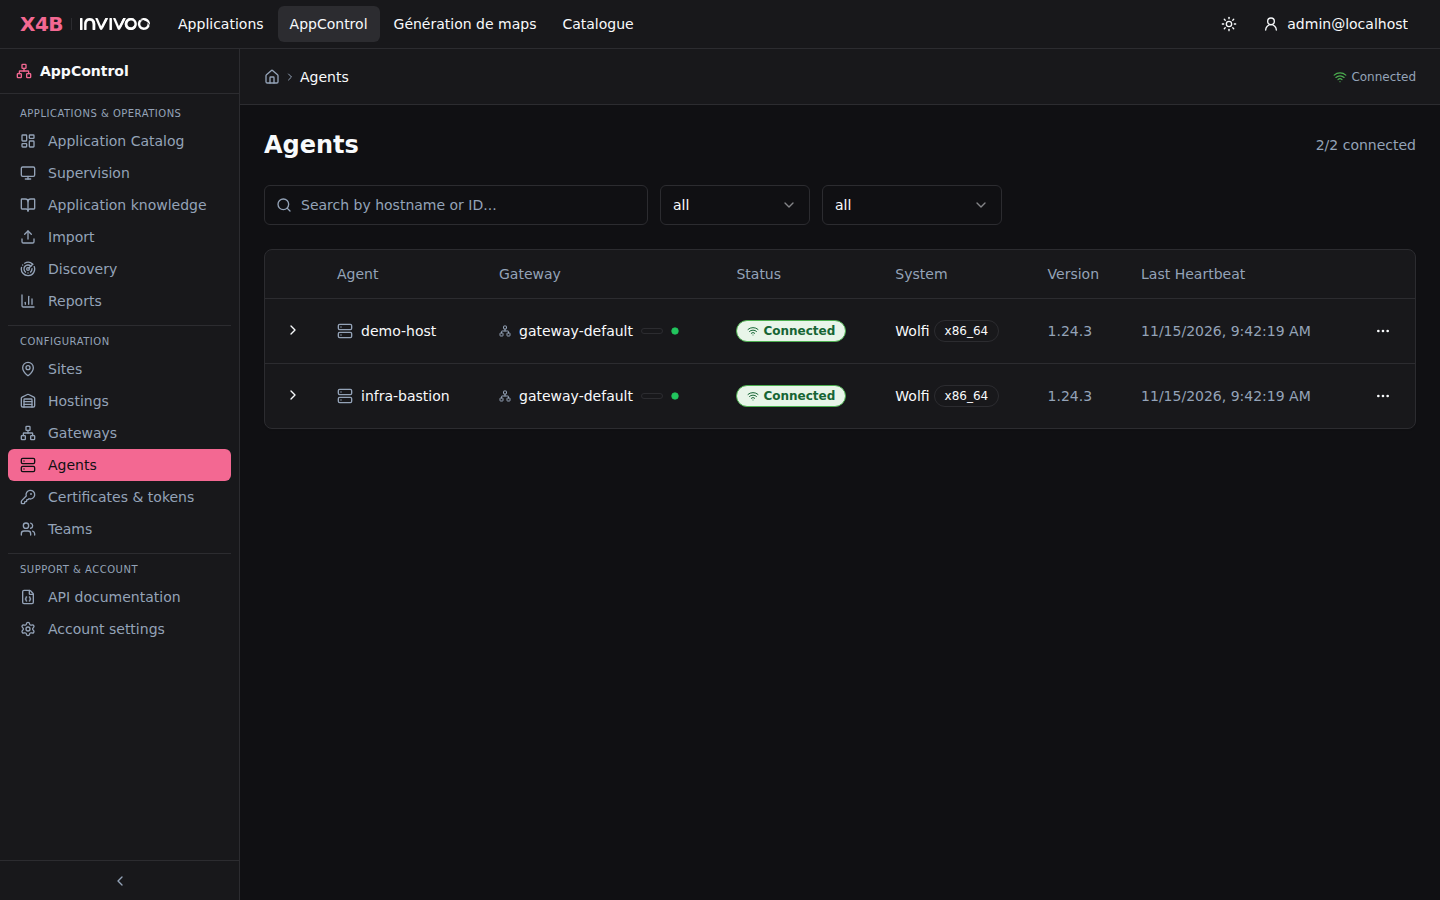
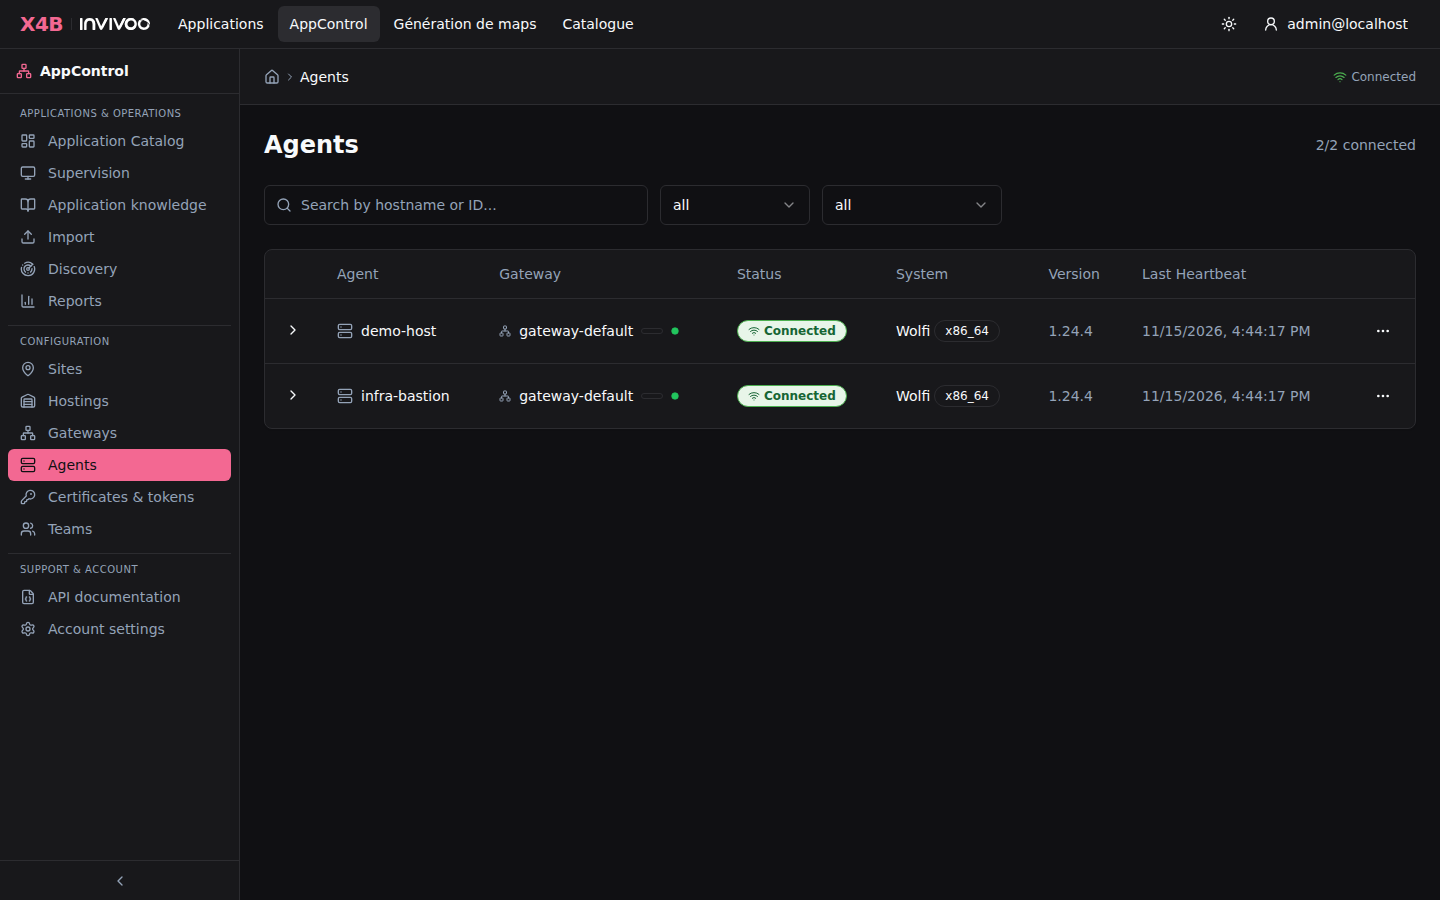
Release v1.24.4 — docs, scripts, examples

diff --git a/docs/qualification/INSTALLATION-WINDOWS.fr.md b/docs/qualification/INSTALLATION-WINDOWS.fr.md
@@ -8,7 +8,7 @@ léger ne contient **aucune image ni aucun exécutable**. Il n’installe pas `o
 ne modifie pas le PATH du poste. Aucun Helm, Docker, Python, WSL, OpenSSL ou outil
 de transfert d’images n’est nécessaire sur le poste client.
 
-Produit : **AppControl 1.24.3**. Paquet : **Windows léger 1.24.3-1**.
+Produit : **AppControl 1.24.4**. Paquet : **Windows léger 1.24.4-1**.
 
 **AppControl est le module d’exploitation de X4B — XComponent for Business, édité par INVIVOO.** La plateforme inclut [l’accueil X4B, les comptes et accès, le badge de supervision et le raccordement des applications](../X4B-PLATEFORME.fr.md). Le module de génération rapproche les composants du catalogue complet. Le kit conserve le choix de l’URL publique, du compte administrateur et du projet, ainsi que le secret de téléchargement des images.
 
@@ -265,14 +265,14 @@ avec `-ModePostgreSQL Externe` et sa chaîne de connexion.
 
 ## 4. Télécharger les petits fichiers de déploiement
 
-- [Paquet Windows léger 1.24.3-1 — scripts et YAML](https://github.com/xcomponent/appcontrol-release/releases/download/v1.24.3/appcontrol-openshift-windows-light-1.24.3-1.zip)
-- [Empreinte SHA-256](https://github.com/xcomponent/appcontrol-release/releases/download/v1.24.3/appcontrol-openshift-windows-light-1.24.3-1.zip.sha256)
+- [Paquet Windows léger 1.24.4-1 — scripts et YAML](https://github.com/xcomponent/appcontrol-release/releases/download/v1.24.4/appcontrol-openshift-windows-light-1.24.4-1.zip)
+- [Empreinte SHA-256](https://github.com/xcomponent/appcontrol-release/releases/download/v1.24.4/appcontrol-openshift-windows-light-1.24.4-1.zip.sha256)
 
 Le ZIP est uniquement un moyen pratique de transporter les fichiers texte.
 Après téléchargement ou transfert approuvé, vérifier l’archive dans PowerShell :
 
 ```powershell
-$archive = 'appcontrol-openshift-windows-light-1.24.3-1.zip'
+$archive = 'appcontrol-openshift-windows-light-1.24.4-1.zip'
 $attendu = ((Get-Content "$archive.sha256" -Raw).Trim() -split '\s+')[0]
 if ((Get-FileHash $archive -Algorithm SHA256).Hash -ne $attendu) {
     throw 'Checksum mismatch: do not use this archive.'
@@ -284,6 +284,37 @@ Utiliser **Extraire tout** dans l’Explorateur. Ouvrir le dossier contenant
 Le dossier `manifests` contient le YAML OpenShift consultable avant installation.
 Les autres fichiers PowerShell sont les fonctions utilisées par le script ;
 ce ne sont pas des logiciels supplémentaires à installer.
+
+## Piloter le kit Windows avec un seul script
+
+Si votre kit contient `Gerer-AppControl.ps1`, ouvrez PowerShell dans le
+dossier extrait et vérifiez la connexion avec `oc whoami`. Lancez
+`.\Gerer-AppControl.ps1` pour choisir une opération dans le menu, ou utilisez
+directement la commande correspondante.
+
+| Opération | Commande |
+|---|---|
+| Nouvelle installation | `.\Gerer-AppControl.ps1 -Action Installer -Projet 'projet-fourni'` |
+| Mise à jour depuis le nouveau kit | `.\Gerer-AppControl.ps1 -Action MettreAJour` |
+| Désinstallation en conservant les données | `.\Gerer-AppControl.ps1 -Action Desinstaller` |
+
+Pour l’installation, ajoutez `-Nom` pour donner un nom à l’instance,
+`-Registre` et éventuellement `-SecretImages` si votre plateforme utilise un
+miroir, et `-UrlPublique` si votre plateforme vous a fourni l’URL.
+Vous pouvez appliquer un fichier de configuration initial avec `-Configuration`.
+Le script de déploiement vous guide pour le choix de PostgreSQL.
+
+Pour mettre à jour ou désinstaller, la commande retrouve l’installation
+dans le dossier d’état standard. Si plusieurs installations sont détectées,
+sélectionnez celle à traiter. Pour un dossier d’état personnalisé, ajoutez
+`-DossierEtat 'C:\AppControl\Etat'`. Le projet et le nom sont relus dans ce
+dossier. Avant une mise à jour, sauvegardez PostgreSQL. La commande réutilise
+la configuration existante. Si le miroir ou le secret de téléchargement
+a changé, renseignez `-Registre` ou `-SecretImages` à la mise à jour.
+
+Les confirmations et les opérations avancées sont détaillées dans les
+sections [Mise à jour](#mettre-a-jour-le-poc) et
+[Désinstallation](#retirer-appcontrol-sans-supprimer-le-projet).
 
 ## 5. Lancer et choisir le projet et PostgreSQL
 
@@ -793,9 +824,19 @@ déployée. Ne pas supprimer son dossier d’état.
 | Nettoyage partiel ou objet déjà supprimé | Relancer la même commande de désinstallation ; les absences sont acceptées et les autres objets sont traités. Lire le bilan des objets ignorés/en échec. |
 | Dossier privé perdu ou endommagé | Afficher le plan avec `-WithoutState -Namespace ... -Name ... -Preview`, puis retirer `-Preview` si la cible est correcte. |
 
+### PostgreSQL reste bloqué après une correction de registre
+
+En mode intégré, comparer l’image du StatefulSet PostgreSQL à celle du pod
+`<nom>-postgresql-0` dans le projet. Si le StatefulSet contient déjà l’image
+corrigée et que son pod utilise encore l’ancienne image avec
+`ErrImagePull` ou `ImagePullBackOff`, supprimer uniquement ce pod depuis
+OpenShift. Le StatefulSet le recrée avec son modèle courant et son volume
+persistant. Attendre que le pod soit prêt, puis relancer le même kit cible avec
+le dossier d’état d’origine pour terminer la mise à jour.
+
 ## Qualification et suite du POC
 
-La publication du kit 1.24.3-1 suit sa qualification Windows/OpenShift. Les fichiers `PUBLICATION-EVALUATION-1.24.3-1.json` et `QUALIFICATION-EVALUATION-1.24.3-1.zip` identifient les images et le ZIP de cette recette.
+La publication du kit 1.24.4-1 suit sa qualification Windows/OpenShift. Les fichiers `PUBLICATION-EVALUATION-1.24.4-1.json` et `QUALIFICATION-EVALUATION-1.24.4-1.zip` identifient les images et le ZIP de cette recette.
 
 ### Historique des qualifications
 
@@ -1174,7 +1215,7 @@ le domaine était la cause de l’erreur d’exposition.
 
 ## Démonstration bancaire complète
 
-**Le kit 1.24.3-1 installe automatiquement la démo bancaire lors d’une installation
+**Le kit 1.24.4-1 installe automatiquement la démo bancaire lors d’une installation
 par défaut**, après la vérification technique et l’enrôlement de l’agent Linux.
 Aucune seconde commande n’est nécessaire. `-SansDemo` désactive les deux démonstrations ;
 une mise à jour avec `-MettreAJour` conserve les applications existantes sans en ajouter.

diff --git a/docs/KNOWLEDGE-ENGINE-CONNECTOR.fr.md b/docs/KNOWLEDGE-ENGINE-CONNECTOR.fr.md
@@ -3,11 +3,16 @@
 Le [contrat OpenAPI](knowledge-engine.openapi.yaml) décrit les opérations
 du connecteur. **Côté client, deux opérations suffisent au parcours de
 génération**. Lister les documents courants et exécuter un prompt sur la
-révision demandée. La lecture directe du JSON sert au diagnostic.
+révision demandée. La lecture directe du JSON est facultative.
 
 X4B fournit le prompt et le schéma AppControl. Le Knowledge Engine présente
-le document dans son format d’origine à l’IA interne. Le connecteur X4B
-traite uniquement les métadonnées de source et le JSON de map retourné.
+le document dans son format d’origine à l’IA interne. Pour vérifier une brique
+proposée que le premier inventaire n’a pas identifiée, X4B peut lire la révision
+exacte du document une fois. Il vérifie l’empreinte et cherche le nom du
+composant et le produit dans le même enregistrement JSON. Ce contrôle est
+facultatif et le document est traité en mémoire. Une source sans cette opération
+continue à générer des propositions dont les rapprochements incertains restent à
+confirmer.
 
 **Une URL de base** dessert le catalogue et l’exécution du prompt. Par
 exemple, avec `https://knowledge.example/api/v1`, X4B appelle
@@ -19,7 +24,7 @@ s’appelle **Génération de maps** et désigne ce raccordement comme la
 | Opération | Ce que le Knowledge Engine fournit |
 | --- | --- |
 | `GET /knowledge-documents` | Une liste paginée des clés applicatives autorisées et de l’empreinte SHA-256 de leur document courant. Le filtre `application_key` vérifie la révision courante d’une application. |
-| `GET /knowledge-documents/{application_key}/versions/{sha256}` | Le JSON d’une révision précise, pour la prévisualisation ou le diagnostic. |
+| `GET /knowledge-documents/{application_key}/versions/{sha256}` | Le JSON d’une révision précise, pour la prévisualisation, le diagnostic ou la vérification d’un rapprochement. |
 | `POST /prompt-executions` | L’exécution synchrone d’un prompt générique sur le document désigné par sa clé applicative et son empreinte. Le service renvoie le texte de l’IA et la référence effectivement utilisée. |
 
 ## Exemple de raccordement
@@ -99,11 +104,18 @@ aux clés, libellés et alias du catalogue de l’organisation. Le prompt final 
 exécuté sur le même document avec l’ensemble des clés, libellés, descriptions et
 alias du catalogue, les suggestions par composant et les codes et noms des sites
 actifs. Un choix sémantique de l’IA non confirmé par le rapprochement déterministe
-est signalé pour revue ; une clé inconnue est refusée. Les commandes, icônes et couleurs du
-catalogue restent dans AppControl. Sans catalogue de composants, X4B exécute
-directement le prompt final avec les sites disponibles.
+est signalé pour revue. Une brique sans correspondance est marquée **À qualifier**
+dans le graphe. Dans **Rapprochements catalogue**, cliquez sur une suggestion
+pour l’affecter au brouillon, ou ouvrez le sélecteur pour rechercher une autre
+brique. Si vous confirmez la publication d’une brique sans type, elle utilise le type générique
+`custom`. Ses commandes et son agent déjà configurés sont conservés. Pour une
+nouvelle brique, configurez ces éléments dans AppControl avant de l’exécuter.
+Les commandes, icônes et couleurs du catalogue restent dans AppControl.
+Sans catalogue de composants, X4B exécute directement le prompt final avec les
+sites disponibles.
 
-L’aperçu de la proposition permet d’ouvrir l’éditeur. Sélectionnez un composant
+L’aperçu de la proposition permet d’ouvrir l’éditeur. Le zoom et le bouton
+**Plein écran** sont disponibles dans les deux vues. Sélectionnez un composant
 pour rechercher une brique par libellé, description ou mot-clé. Vous pouvez
 aussi modifier son libellé, sa description et ses sites documentés, déplacer
 les composants ou ajuster leurs dépendances. Enregistrez la proposition, examinez les écarts
@@ -111,6 +123,13 @@ et confirmez la publication. X4B refuse la publication si la proposition ou
 la map a changé depuis la revue et vous invite à recharger. Les sites
 documentés servent à décrire l’architecture. L’affectation des agents se fait
 dans AppControl.
+
+L’aperçu et la map publiée indiquent l’obsolescence renseignée par la source,
+avec le niveau s’il est fourni. Les états reconnus sont **À jour**, **Obsolète**
+et **Obsolescence inconnue**. Une brique sans information documentée n’affiche aucun
+badge d’obsolescence. Pour récupérer l’information sur une proposition déjà
+générée, utilisez **Relancer la génération** et relisez le résultat avant de
+publier.
 
 Sur une map déjà publiée, X4B reconnaît les composants existants par leur nom.
 La mise à jour conserve leurs identifiants, leurs commandes et leurs agents,

diff --git a/docs/security-reports/SECURITY-ASSURANCE-REPORT-v1.24.4.md b/docs/security-reports/SECURITY-ASSURANCE-REPORT-v1.24.4.md
@@ -1,8 +1,8 @@
-# AppControl v1.24.3 — release qualification report
+# AppControl v1.24.4 — release qualification report
 
-Generated: 2026-11-15T09:33:58.381312+00:00
-Source commit: `7c642c5f15400f1dc7a7b7af93c246d21c347561`
-Release: https://github.com/xcomponent/appcontrol-release/releases/tag/vv1.24.3
+Generated: 2026-11-15T16:36:10.730492+00:00
+Source commit: `383edfe3a36dc7c5c51167c693d70530acd079f1`
+Release: https://github.com/xcomponent/appcontrol-release/releases/tag/vv1.24.4
 
 ## Scope and result
 
@@ -13,22 +13,22 @@ The OpenShift client kit targets Linux amd64. Its five images are backend, front
 ## Vulnerability scans and inventories
 
 Trivy 0.76.1 scans OS and application packages at all severities (UNKNOWN, LOW, MEDIUM, HIGH, CRITICAL), including unfixed advisories. Image scans use comprehensive detection. A scan with missing inventory, known vulnerabilities or suppressed findings fails the release. Each image has its own CycloneDX SBOM. The locked Rust and npm dependencies have an additional SBOM including development dependencies.
-Source vulnerability database updated: 2026-11-15T07:02:44.492376642Z. Per-image scanner metadata records the database used for that scan.
+Source vulnerability database updated: 2026-11-15T12:50:30.599818283Z. Per-image scanner metadata records the database used for that scan.
 
 | Image | Qualified image and digest | Findings | Scan timestamp |
 |---|---|---:|---|
-| backend | `appcontrol-backend@sha256:4b772a09908674688b7515fe7e81c31f4acf24edfd16436f956c39e7f263e7cb` | 0 | 2026-11-15T09:10:47.798767277Z |
-| frontend | `appcontrol-frontend@sha256:06f3e4d157492204e7082aaf69f5188affdf46df6bd8d149b8c4efdd296c7994` | 0 | 2026-11-15T09:10:48.485393704Z |
-| gateway | `appcontrol-gateway@sha256:ed8674402e8a47a6e20358a7d624611323faf76d580014815e82c549feda1d42` | 0 | 2026-11-15T09:10:43.846226314Z |
-| agent | `appcontrol-agent@sha256:06a1d72a3adf83e07a4b3bb49a2e9c2508f833c28f88072693dd8d6b261452e2` | 0 | 2026-11-15T09:10:55.624831011Z |
-| postgresql | `appcontrol-postgresql@sha256:1eabb2d85389246ab25c71f0e9a0b7fe819d7747d80edb84629c2a387a46fb02` | 0 | 2026-11-15T09:10:57.557635138Z |
-| init-certs | `appcontrol-init-certs@sha256:352e4e7378808c79109013826123615dab1e04db7bf57b8fe2548e6e087bde98` | 0 | 2026-11-15T09:10:44.593432025Z |
-| azure-gateway | `appcontrol-azure-gateway@sha256:c98b2ceb176acbab807f999890ee01b0fa4f907e98be4e9071c5183d52d743b6` | 0 | 2026-11-15T09:10:57.119244447Z |
+| backend | `appcontrol-backend@sha256:c4dafac0667b68992e48393800484b7da0e4e3c33b36ec16f9de0ea8d2302ec0` | 0 | 2026-11-15T16:24:15.088773534Z |
+| frontend | `appcontrol-frontend@sha256:29c4f4285ac5de0e4bfacdc02e0939ef0c627cccb24a89c3baa62402b4ba083d` | 0 | 2026-11-15T16:24:17.37337963Z |
+| gateway | `appcontrol-gateway@sha256:9bc08a485b4fa54a6d6fc5ab239c71fda4e6b0d88b2eae02a106651b86d099b5` | 0 | 2026-11-15T16:24:10.568864445Z |
+| agent | `appcontrol-agent@sha256:820d9957b94e3b18fec36276b267a9ef34c51742a7bb2437332d47bf123b2804` | 0 | 2026-11-15T16:24:09.837646974Z |
+| postgresql | `appcontrol-postgresql@sha256:44b6a3112fdebb83e030b09de1f66cde06974a1ed16b170f25c894dcced6492a` | 0 | 2026-11-15T16:24:18.756155645Z |
+| init-certs | `appcontrol-init-certs@sha256:1a1e79422312b6ff92faff32f611f0709b6da9ce4d486b05b960f4011d4f1459` | 0 | 2026-11-15T16:24:03.271666834Z |
+| azure-gateway | `appcontrol-azure-gateway@sha256:b0cb110aa4d67b9df47b3db97058076e3259310e618b9a2f1a74ae01517ca7e9` | 0 | 2026-11-15T16:24:11.252824175Z |
 
 | Dependency scope | Inputs | Findings | Scan timestamp |
 |---|---|---:|---|
-| Production dependencies | Cargo.lock + frontend/package-lock.json | 0 | 2026-11-15T08:34:06.412320763Z |
-| Production and development dependencies | Cargo.lock + frontend/package-lock.json | 0 | 2026-11-15T08:34:19.348075244Z |
+| Production dependencies | Cargo.lock + frontend/package-lock.json | 0 | 2026-11-15T16:04:47.491771937Z |
+| Production and development dependencies | Cargo.lock + frontend/package-lock.json | 0 | 2026-11-15T16:05:00.774936887Z |
 
 RustSec: zero vulnerability advisories. Informational warnings, if any, remain in rustsec.json and are not reclassified as vulnerabilities.
 RustSec warning categories: unmaintained: 2, unsound: 1, yanked: 1.

diff --git a/docs/qualification/DEMARRER-ICI.fr.md b/docs/qualification/DEMARRER-ICI.fr.md
@@ -44,11 +44,15 @@ fois. Pour un miroir volontairement aplati, le guide décrit
 
 ## Installer, démontrer, faire évoluer
 
+Si le kit contient `Gerer-AppControl.ps1`, son menu propose l’installation,
+la mise à jour et la désinstallation. Le guide donne aussi les
+[trois commandes directes](INSTALLATION-WINDOWS.fr.md#piloter-le-kit-windows-avec-un-seul-script).
+
 1. Télécharger le kit Windows léger et vérifier son empreinte SHA-256.
-2. Lancer `Deployer-AppControl.ps1`. Le script demande le projet et le mode PostgreSQL ; pour Artifactory, fournir les valeurs de la plateforme avec `-Registre` et éventuellement `-SecretImages`.
+2. Choisir **Installer** dans le menu, ou lancer `Deployer-AppControl.ps1` avec un kit sans menu. Le script demande le projet et le mode PostgreSQL. Pour Artifactory, renseigner `-Registre` et éventuellement `-SecretImages`.
 3. Ouvrir l’URL affichée. La recette crée un agent et une map synthétique pour vérifier les dépendances, le démarrage, l’arrêt, les droits et la persistance.
 4. Choisir une application pour le POC, préparer sa map avec l’IA du client et les guides ci-dessous, puis vérifier les commandes, les agents choisis et les droits avec son équipe d’exploitation. Commencer par des commandes simulées ou une application non critique selon le périmètre convenu.
-5. Pour une nouvelle version, récupérer son kit, sauvegarder PostgreSQL puis relancer **le même script avec `-MettreAJour`**. Le dossier privé de l’installation, ses paramètres et ses données sont conservés ; prévoir une interruption des services. Voir la [procédure de mise à jour](INSTALLATION-WINDOWS.fr.md#mettre-a-jour-le-poc).
+5. Pour une nouvelle version, récupérer son kit, sauvegarder PostgreSQL puis choisir **Mettre à jour** dans le menu ou lancer `Deployer-AppControl.ps1 -MettreAJour` avec un kit sans menu. Le dossier privé de l’installation, ses paramètres et ses données sont conservés. Prévoir une interruption des services. Voir la [procédure de mise à jour](INSTALLATION-WINDOWS.fr.md#mettre-a-jour-le-poc).
 
 La mise à jour conserve les maps et ne rejoue pas la démonstration. Elle met à
 jour les services AppControl et, en mode intégré, l’image PostgreSQL. Les agents

diff --git a/docs/X4B-PLATEFORME.fr.md b/docs/X4B-PLATEFORME.fr.md
@@ -30,7 +30,12 @@ Pour un POC avec un portail documentaire, créer un compte administrateur de rev
 | `GET /fiches/<id>/status` | `POST /api/v1/x4b/embedded/status` avec `credentials` et `source_id`. Renvoie l’état agrégé, la dernière observation et l’indicateur de fraîcheur. Une map absente ou non autorisée donne `404`. |
 | `POST /fiches/<id>/simulation` | `POST /api/v1/x4b/embedded/simulation` avec les mêmes champs et éventuellement `simulation_site_id`. Affecter la réponse à la propriété JavaScript `session` du composant map. Vérifier l’origine du POST. |
 
-Après un `POST /x4b/logout` réussi, le bandeau dirige le navigateur vers la page de connexion X4B. La route de l'application hôte reste responsable de supprimer sa session locale et de révoquer la session partagée ; le bandeau ne peut pas effacer les cookies protégés de l'hôte. Si la révocation échoue, retourner une erreur HTTP plutôt qu'un succès. L'application doit également protéger ses propres pages et API.
+`GET /x4b/session` renvoie au bandeau les champs `user` et `modules` issus de
+la réponse serveur X4B. Chaque entrée de `modules` contient `key`, `name` et
+`entry_url`. X4B calcule la liste selon les droits du compte connecté. Le
+bandeau ajoute **Catalogue** lorsque **AppControl** figure dans cette liste.
+
+Le bandeau demande confirmation avant de déconnecter le compte. Après un `POST /x4b/logout` réussi, il dirige le navigateur vers la page de connexion X4B. La route de l'application hôte supprime sa session locale et révoque la session partagée. Si la révocation échoue, la route renvoie une erreur HTTP. L'application protège aussi ses propres pages et API.
 
 Pour les deux routes Embedded, `credentials` contient `client_id`, `client_secret` et `session_token`. La source de la map est résolue par `source_reference.system` égal à la clé du module et `source_reference.id` égal à l’identifiant de la fiche. La configuration [AppControl Embedded](EMBEDDED.fr.md) déclare en plus l’origine du portail et le site de simulation. Le jeton de simulation reste court et suit la validité de la session X4B qui l’a demandé.
 

diff --git a/docs/MAP_GENERATION.fr.md b/docs/MAP_GENERATION.fr.md
@@ -56,12 +56,15 @@ La réponse JSON contient notamment :
 | `examples` | Exemples nommés : chacun contient un champ `map`. |
 | `capabilities` et `limitations` | Fonctionnalités du profil et limites à prendre en compte par l’intégration. Le schéma reste la référence pour les champs acceptés. |
 
-La révision actuelle des instructions est `prompt_revision: "8"`. L’IA reprend
+La révision actuelle des instructions est `prompt_revision: "9"`. L’IA reprend
 dans `source_sites` les codes ou noms de tous les sites explicitement documentés
 pour un composant, par exemple `"source_sites": ["Sirius", "Legac"]`. Le champ
 historique `source_site` reste accepté pour un seul site. Lors d’une mise à
 jour dans X4B, une liste `source_sites: []` retire les sites documentés du
 composant. L’absence des deux champs laisse en place ses sites documentés.
+Le champ facultatif `obsolescence` contient un `status` (`up_to_date`, `obsolete`
+ou `unknown`) et, si la source le précise, le niveau documenté dans `level`.
+Le champ est omis si le document ne renseigne aucun statut ni niveau.
 Lorsque les hôtes sont
 inconnus, l’IA laisse `binding_profiles` et `host` absents. L’intégration peut
 fournir les placements autorisés.
